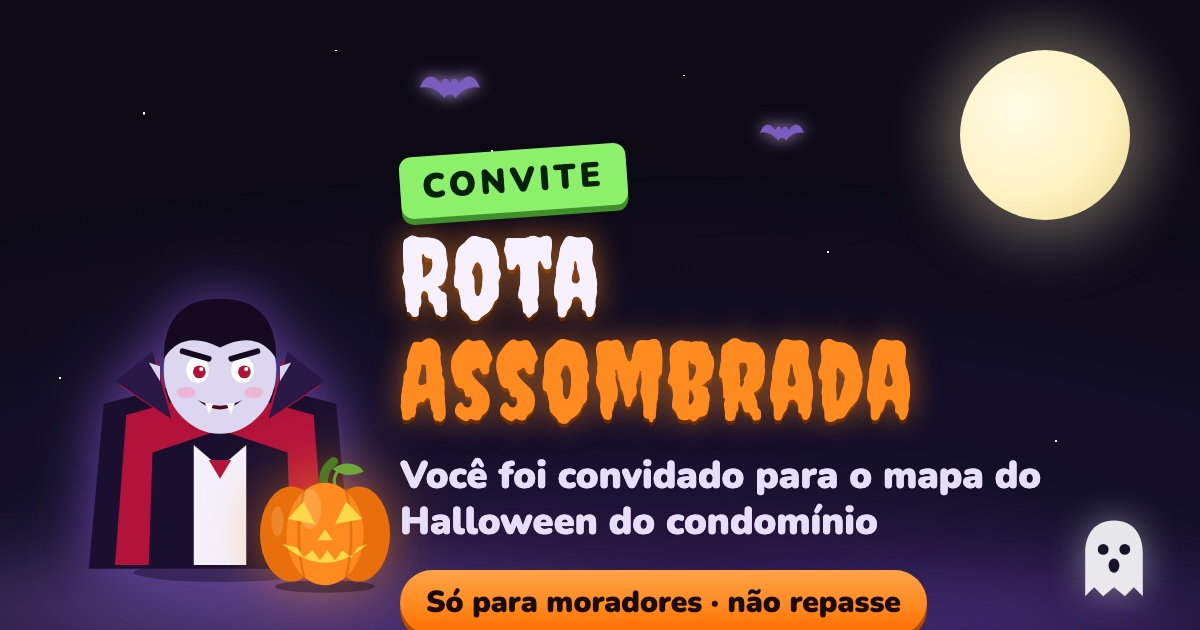
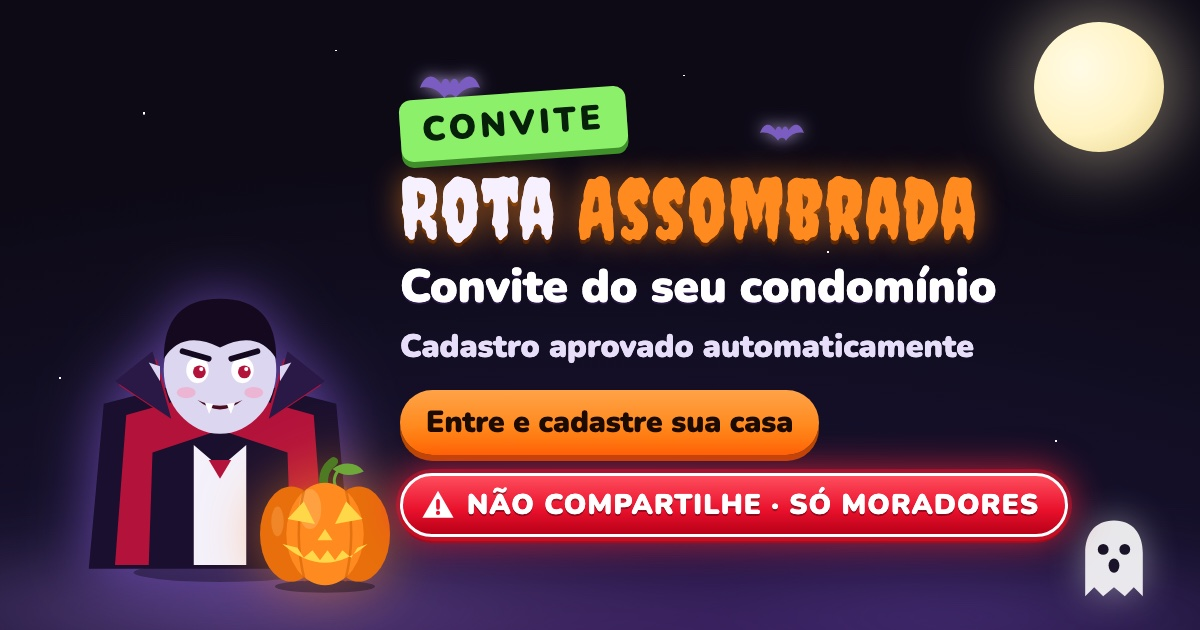
Capas: botão de acordo com o tipo de link, cadastro aprovado e alerta vermelho no convite

diff --git a/scripts/capa-modelo.html b/scripts/capa-modelo.html
@@ -17,10 +17,15 @@ p{margin:16px 0 0;color:#e7defa;font-size:32px;font-weight:900;line-height:1.2}
 .nome{margin:14px 0 0;color:#fff;font-size:46px;font-weight:900;line-height:1.08;display:-webkit-box;-webkit-line-clamp:2;-webkit-box-orient:vertical;overflow:hidden;text-shadow:0 2px 0 #2a1846}
 .nome.longo{font-size:38px}
 .chip{display:inline-block;margin-top:26px;padding:12px 26px;border-radius:999px;background:linear-gradient(180deg,#ffa348,#ff8a1f 55%,#ff6a00);color:#1c0b00;font-weight:900;font-size:30px;box-shadow:0 6px 0 #b84a00}
+.nome:empty,p:empty{display:none}
+.botoes{display:flex;flex-direction:column;align-items:flex-start;gap:18px;margin-top:24px}
+.botoes .chip{margin-top:0}
+.alerta{display:inline-flex;align-items:center;gap:12px;padding:10px 26px 10px 18px;border-radius:999px;background:linear-gradient(180deg,#ff4d5e,#e8102b 60%,#b80018);color:#fff;font-weight:900;font-size:28px;letter-spacing:.04em;border:3px solid #fff;box-shadow:0 0 0 4px rgba(232,16,43,.45),0 0 34px 6px rgba(255,40,60,.65),0 6px 0 #7a0010;text-shadow:0 2px 0 rgba(0,0,0,.35)}
+.alerta svg{width:34px;height:34px;flex:none}
 .selo{display:inline-block;margin-bottom:14px;padding:8px 22px;border-radius:12px;background:#8df06a;color:#06200a;font:900 34px Nunito,sans-serif;letter-spacing:.12em;transform:rotate(-4deg);box-shadow:0 6px 0 #3f8f2a}</style></head><body><div class="est"></div><div class="lua"></div><div class="nevoa"></div>
 <div class="bat" style="left:420px;top:70px"><svg viewBox="0 0 34 18" fill="#7b5cc0"><path d="M0 10C3 2 8 2 12 8c1-4 4-4 5 0 1-4 4-4 5 0 4-6 9-6 12 2-6-1-10 1-14 6-1-3-5-3-6 0-4-5-8-7-14-6z"/></svg></div><div class="bat" style="left:760px;top:120px;width:44px"><svg viewBox="0 0 34 18" fill="#7b5cc0"><path d="M0 10C3 2 8 2 12 8c1-4 4-4 5 0 1-4 4-4 5 0 4-6 9-6 12 2-6-1-10 1-14 6-1-3-5-3-6 0-4-5-8-7-14-6z"/></svg></div>
 <div class="g" style="right:50px;bottom:24px;width:72px"><svg viewBox="0 0 40 46"><path d="M20 2C9 2 4 10 4 20v24l5-5 5 5 6-5 6 5 5-5 5 5V20C36 10 31 2 20 2z" fill="#fff"/><circle cx="14" cy="18" r="3" fill="#1a1428"/><circle cx="26" cy="18" r="3" fill="#1a1428"/><ellipse cx="20" cy="27" rx="3" ry="4" fill="#1a1428"/></svg></div>
 <div class="drac"><svg class="dracula" viewBox="0 0 160 170" aria-hidden="true"><ellipse cx="80" cy="164" rx="46" ry="5" fill="#000" opacity=".35"/><g class="capa"><path d="M18 74 L80 58 L142 74 L150 162 L10 162 Z" fill="#1a0f2e"/><path d="M30 80 L80 66 L130 80 L136 160 L24 160 Z" fill="#b3123b"/></g><path d="M44 100 L80 88 L116 100 L118 160 L42 160 Z" fill="#1a0f2e"/><path d="M66 96 L80 108 L94 96 L94 160 L66 160 Z" fill="#f4f1fb"/><path d="M74 104 l6 10 6-10 z" fill="#b3123b"/><path d="M26 64 L56 84 L46 50 Z M134 64 L104 84 L114 50 Z" fill="#b3123b"/><path d="M24 62 L54 82 L44 46 Z M136 62 L106 82 L116 46 Z" fill="#2a1846"/><ellipse cx="80" cy="56" rx="30" ry="34" fill="#dcd6f0"/><path d="M50 50 Q50 18 80 18 Q110 18 110 50 Q100 34 80 44 Q60 34 50 50 Z" fill="#14091f"/><path d="M48 54 l-6 -2 6 10z M112 54 l6 -2 -6 10z" fill="#dcd6f0"/><g class="olhos"><ellipse cx="68" cy="56" rx="6" ry="7" fill="#fff"/><ellipse cx="92" cy="56" rx="6" ry="7" fill="#fff"/><circle cx="69" cy="57" r="3.4" fill="#b3123b"/><circle cx="93" cy="57" r="3.4" fill="#b3123b"/><circle cx="70" cy="55.5" r="1.1" fill="#fff"/><circle cx="94" cy="55.5" r="1.1" fill="#fff"/></g><path d="M60 46 l14 4 M100 46 l-14 4" stroke="#14091f" stroke-width="3" stroke-linecap="round"/><ellipse cx="62" cy="68" rx="5" ry="3" fill="#ff8fb0" opacity=".45"/><ellipse cx="98" cy="68" rx="5" ry="3" fill="#ff8fb0" opacity=".45"/><g class="boca"><path d="M68 72 Q80 82 92 72 Q80 78 68 72 Z" fill="#4a0d1e"/><path d="M72 73.5 l2.2 6 2.2-5.4 z M83.6 74.1 l2.2 5.4 2.2-6 z" fill="#fff"/></g></svg></div>
 <div class="abo" style="left:250px;bottom:30px;width:150px"><svg class="abobora-vazia" viewBox="0 0 120 112" aria-hidden="true"><ellipse cx="60" cy="106" rx="40" ry="5" fill="#000" opacity=".35"/><path d="M59 26c-1-9 2-16 8-20" stroke="#4f7a24" stroke-width="7" stroke-linecap="round" fill="none"/><path d="M66 12c9-7 20-5 25 2-9 4-17 4-25-2z" fill="#6fa83a"/><path d="M70 14c-4 6-3 12 2 16" stroke="#6fa83a" stroke-width="2.5" fill="none" stroke-linecap="round"/><ellipse cx="33" cy="64" rx="25" ry="38" fill="#e86f0c"/><ellipse cx="87" cy="64" rx="25" ry="38" fill="#e86f0c"/><ellipse cx="60" cy="64" rx="31" ry="41" fill="#ff8a1f"/><ellipse cx="48" cy="44" rx="9" ry="16" fill="#ffb35c" opacity=".55"/><ellipse cx="22" cy="54" rx="5" ry="12" fill="#ffb35c" opacity=".35"/><path d="M44 26q-10 38 0 76M76 26q10 38 0 76" stroke="#c25400" stroke-width="2" fill="none" opacity=".45"/><g class="rosto" fill="#ffd84a"><path d="M30 52l13-14 9 18z"/><path d="M90 52l-13-14-9 18z"/><path d="M60 60l-6 9h12z"/><path d="M26 72q34 30 68 0l-8 3-5 8-7-6-6 8-6-8-6 8-6-8-7 6-5-8z"/></g></svg></div>
-<div class="txt"><div>{{SELO}}<h1>Rota <span>Assombrada</span></h1><div class="nome {{CLASSE_NOME}}">{{NOME}}</div><p>{{SUB}}</p><div class="chip">{{CHIP}}</div></div></div>
+<div class="txt"><div>{{SELO}}<h1>Rota <span>Assombrada</span></h1><div class="nome {{CLASSE_NOME}}">{{NOME}}</div><p>{{SUB}}</p><div class="botoes"><div class="chip">{{CHIP}}</div>{{ALERTA}}</div></div></div>
 </body></html>

diff --git a/c/EMEM8/convite/index.html b/c/EMEM8/convite/index.html
@@ -4,14 +4,14 @@
 <meta charset="utf-8">
 <meta name="viewport" content="width=device-width,initial-scale=1">
 <title>Convite: Condomínio Campos de Santo Antônio I · Rota Assombrada</title>
-<meta name="description" content="Convite para o mapa do Halloween de Condomínio Campos de Santo Antônio I: sua entrada é aprovada automaticamente. Compartilhe só com moradores do condomínio.">
+<meta name="description" content="Convite para o mapa do Halloween de Condomínio Campos de Santo Antônio I: seu cadastro é aprovado automaticamente. Não compartilhe: é só para moradores do condomínio.">
 <meta property="og:type" content="website">
 <meta property="og:site_name" content="Rota Assombrada">
 <meta property="og:title" content="Convite: Condomínio Campos de Santo Antônio I · Rota Assombrada">
-<meta property="og:description" content="Convite para o mapa do Halloween de Condomínio Campos de Santo Antônio I: sua entrada é aprovada automaticamente. Compartilhe só com moradores do condomínio.">
+<meta property="og:description" content="Convite para o mapa do Halloween de Condomínio Campos de Santo Antônio I: seu cadastro é aprovado automaticamente. Não compartilhe: é só para moradores do condomínio.">
 <meta property="og:url" content="https://rota-assombrada.github.io/c/EMEM8/convite/">
-<meta property="og:image" content="https://rota-assombrada.github.io/c/EMEM8/convite/capa.jpg?v=57d7b9a546">
-<meta property="og:image:secure_url" content="https://rota-assombrada.github.io/c/EMEM8/convite/capa.jpg?v=57d7b9a546">
+<meta property="og:image" content="https://rota-assombrada.github.io/c/EMEM8/convite/capa.jpg?v=806f0dee0d">
+<meta property="og:image:secure_url" content="https://rota-assombrada.github.io/c/EMEM8/convite/capa.jpg?v=806f0dee0d">
 <meta property="og:image:type" content="image/jpeg">
 <meta property="og:image:width" content="1200">
 <meta property="og:image:height" content="630">
@@ -19,8 +19,8 @@
 <meta property="og:locale" content="pt_BR">
 <meta name="twitter:card" content="summary_large_image">
 <meta name="twitter:title" content="Convite: Condomínio Campos de Santo Antônio I · Rota Assombrada">
-<meta name="twitter:description" content="Convite para o mapa do Halloween de Condomínio Campos de Santo Antônio I: sua entrada é aprovada automaticamente. Compartilhe só com moradores do condomínio.">
-<meta name="twitter:image" content="https://rota-assombrada.github.io/c/EMEM8/convite/capa.jpg?v=57d7b9a546">
+<meta name="twitter:description" content="Convite para o mapa do Halloween de Condomínio Campos de Santo Antônio I: seu cadastro é aprovado automaticamente. Não compartilhe: é só para moradores do condomínio.">
+<meta name="twitter:image" content="https://rota-assombrada.github.io/c/EMEM8/convite/capa.jpg?v=806f0dee0d">
 <meta name="robots" content="noindex">
 <link rel="icon" type="image/png" href="https://rota-assombrada.github.io/img/favicon-32.png">
 <style>body{margin:0;min-height:100vh;display:flex;align-items:center;justify-content:center;background:#0d0a16;color:#f7f1ff;font:700 18px system-ui,sans-serif;text-align:center;padding:24px}a{color:#ff8a1f}</style>

diff --git a/convite/index.html b/convite/index.html
@@ -4,14 +4,14 @@
 <meta charset="utf-8">
 <meta name="viewport" content="width=device-width,initial-scale=1">
 <title>Convite para o mapa do Halloween · Rota Assombrada</title>
-<meta name="description" content="Convite para o mapa do Halloween do condomínio: sua entrada é aprovada automaticamente. Compartilhe só com moradores do condomínio.">
+<meta name="description" content="Convite para o mapa do Halloween do condomínio: seu cadastro é aprovado automaticamente. Não compartilhe: é só para moradores do condomínio.">
 <meta property="og:type" content="website">
 <meta property="og:site_name" content="Rota Assombrada">
 <meta property="og:title" content="Convite para o mapa do Halloween · Rota Assombrada">
-<meta property="og:description" content="Convite para o mapa do Halloween do condomínio: sua entrada é aprovada automaticamente. Compartilhe só com moradores do condomínio.">
+<meta property="og:description" content="Convite para o mapa do Halloween do condomínio: seu cadastro é aprovado automaticamente. Não compartilhe: é só para moradores do condomínio.">
 <meta property="og:url" content="https://rota-assombrada.github.io/convite/">
-<meta property="og:image" content="https://rota-assombrada.github.io/img/preview-convite.jpg">
-<meta property="og:image:secure_url" content="https://rota-assombrada.github.io/img/preview-convite.jpg">
+<meta property="og:image" content="https://rota-assombrada.github.io/img/preview-convite.jpg?v=2">
+<meta property="og:image:secure_url" content="https://rota-assombrada.github.io/img/preview-convite.jpg?v=2">
 <meta property="og:image:type" content="image/jpeg">
 <meta property="og:image:width" content="1200">
 <meta property="og:image:height" content="630">
@@ -19,8 +19,8 @@
 <meta property="og:locale" content="pt_BR">
 <meta name="twitter:card" content="summary_large_image">
 <meta name="twitter:title" content="Convite para o mapa do Halloween · Rota Assombrada">
-<meta name="twitter:description" content="Convite para o mapa do Halloween do condomínio: sua entrada é aprovada automaticamente. Compartilhe só com moradores do condomínio.">
-<meta name="twitter:image" content="https://rota-assombrada.github.io/img/preview-convite.jpg">
+<meta name="twitter:description" content="Convite para o mapa do Halloween do condomínio: seu cadastro é aprovado automaticamente. Não compartilhe: é só para moradores do condomínio.">
+<meta name="twitter:image" content="https://rota-assombrada.github.io/img/preview-convite.jpg?v=2">
 <meta name="robots" content="noindex">
 <link rel="icon" type="image/png" href="https://rota-assombrada.github.io/img/favicon-32.png">
 <style>body{margin:0;min-height:100vh;display:flex;align-items:center;justify-content:center;background:#0d0a16;color:#f7f1ff;font:700 18px system-ui,sans-serif;text-align:center;padding:24px}a{color:#ff8a1f}</style>

diff --git a/c/EMEM8/index.html b/c/EMEM8/index.html
@@ -10,8 +10,8 @@
 <meta property="og:title" content="Condomínio Campos de Santo Antônio I · Rota Assombrada">
 <meta property="og:description" content="O mapa do Halloween de Condomínio Campos de Santo Antônio I: veja as casas que dão doces, monte o roteiro e cadastre a sua.">
 <meta property="og:url" content="https://rota-assombrada.github.io/c/EMEM8/">
-<meta property="og:image" content="https://rota-assombrada.github.io/c/EMEM8/capa.jpg?v=79c195f1b3">
-<meta property="og:image:secure_url" content="https://rota-assombrada.github.io/c/EMEM8/capa.jpg?v=79c195f1b3">
+<meta property="og:image" content="https://rota-assombrada.github.io/c/EMEM8/capa.jpg?v=650defb261">
+<meta property="og:image:secure_url" content="https://rota-assombrada.github.io/c/EMEM8/capa.jpg?v=650defb261">
 <meta property="og:image:type" content="image/jpeg">
 <meta property="og:image:width" content="1200">
 <meta property="og:image:height" content="630">
@@ -20,7 +20,7 @@
 <meta name="twitter:card" content="summary_large_image">
 <meta name="twitter:title" content="Condomínio Campos de Santo Antônio I · Rota Assombrada">
 <meta name="twitter:description" content="O mapa do Halloween de Condomínio Campos de Santo Antônio I: veja as casas que dão doces, monte o roteiro e cadastre a sua.">
-<meta name="twitter:image" content="https://rota-assombrada.github.io/c/EMEM8/capa.jpg?v=79c195f1b3">
+<meta name="twitter:image" content="https://rota-assombrada.github.io/c/EMEM8/capa.jpg?v=650defb261">
 <meta name="robots" content="noindex">
 <link rel="icon" type="image/png" href="https://rota-assombrada.github.io/img/favicon-32.png">
 <style>body{margin:0;min-height:100vh;display:flex;align-items:center;justify-content:center;background:#0d0a16;color:#f7f1ff;font:700 18px system-ui,sans-serif;text-align:center;padding:24px}a{color:#ff8a1f}</style>

diff --git a/c/index.html b/c/index.html
@@ -10,8 +10,8 @@
 <meta property="og:title" content="Mapa do Halloween do condomínio · Rota Assombrada">
 <meta property="og:description" content="Veja as casas que dão doces no seu condomínio, monte o roteiro e cadastre a sua casa.">
 <meta property="og:url" content="https://rota-assombrada.github.io/c/">
-<meta property="og:image" content="https://rota-assombrada.github.io/img/preview.jpg">
-<meta property="og:image:secure_url" content="https://rota-assombrada.github.io/img/preview.jpg">
+<meta property="og:image" content="https://rota-assombrada.github.io/img/preview.jpg?v=2">
+<meta property="og:image:secure_url" content="https://rota-assombrada.github.io/img/preview.jpg?v=2">
 <meta property="og:image:type" content="image/jpeg">
 <meta property="og:image:width" content="1200">
 <meta property="og:image:height" content="630">
@@ -20,7 +20,7 @@
 <meta name="twitter:card" content="summary_large_image">
 <meta name="twitter:title" content="Mapa do Halloween do condomínio · Rota Assombrada">
 <meta name="twitter:description" content="Veja as casas que dão doces no seu condomínio, monte o roteiro e cadastre a sua casa.">
-<meta name="twitter:image" content="https://rota-assombrada.github.io/img/preview.jpg">
+<meta name="twitter:image" content="https://rota-assombrada.github.io/img/preview.jpg?v=2">
 <meta name="robots" content="noindex">
 <link rel="icon" type="image/png" href="https://rota-assombrada.github.io/img/favicon-32.png">
 <style>body{margin:0;min-height:100vh;display:flex;align-items:center;justify-content:center;background:#0d0a16;color:#f7f1ff;font:700 18px system-ui,sans-serif;text-align:center;padding:24px}a{color:#ff8a1f}</style>

diff --git a/404.html b/404.html
@@ -10,8 +10,8 @@
 <meta property="og:title" content="Rota Assombrada">
 <meta property="og:description" content="O mapa das casas que dão doces no seu condomínio.">
 <meta property="og:url" content="https://rota-assombrada.github.io/">
-<meta property="og:image" content="https://rota-assombrada.github.io/img/preview.jpg">
-<meta property="og:image:secure_url" content="https://rota-assombrada.github.io/img/preview.jpg">
+<meta property="og:image" content="https://rota-assombrada.github.io/img/preview.jpg?v=2">
+<meta property="og:image:secure_url" content="https://rota-assombrada.github.io/img/preview.jpg?v=2">
 <meta property="og:image:type" content="image/jpeg">
 <meta property="og:image:width" content="1200">
 <meta property="og:image:height" content="630">
@@ -20,7 +20,7 @@
 <meta name="twitter:card" content="summary_large_image">
 <meta name="twitter:title" content="Rota Assombrada">
 <meta name="twitter:description" content="O mapa das casas que dão doces no seu condomínio.">
-<meta name="twitter:image" content="https://rota-assombrada.github.io/img/preview.jpg">
+<meta name="twitter:image" content="https://rota-assombrada.github.io/img/preview.jpg?v=2">
 <meta name="robots" content="noindex">
 <link rel="icon" type="image/png" href="https://rota-assombrada.github.io/img/favicon-32.png">
 <style>body{margin:0;min-height:100vh;display:flex;align-items:center;justify-content:center;background:#0d0a16;color:#f7f1ff;font:700 18px system-ui,sans-serif;text-align:center;padding:24px}a{color:#ff8a1f}</style>

diff --git a/index.html b/index.html
@@ -15,8 +15,8 @@
 <meta property="og:title" content="Rota Assombrada 🎃">
 <meta property="og:description" content="O mapa das casas que dão doces no seu condomínio. Cadastre sua casa e monte o roteiro do Halloween.">
 <meta property="og:url" content="https://rota-assombrada.github.io/">
-<meta property="og:image" content="https://rota-assombrada.github.io/img/preview.jpg">
-<meta property="og:image:secure_url" content="https://rota-assombrada.github.io/img/preview.jpg">
+<meta property="og:image" content="https://rota-assombrada.github.io/img/preview.jpg?v=2">
+<meta property="og:image:secure_url" content="https://rota-assombrada.github.io/img/preview.jpg?v=2">
 <meta property="og:image:type" content="image/jpeg">
 <meta property="og:image:width" content="1200">
 <meta property="og:image:height" content="630">
@@ -25,7 +25,7 @@
 <meta name="twitter:card" content="summary_large_image">
 <meta name="twitter:title" content="Rota Assombrada">
 <meta name="twitter:description" content="O mapa das casas que dão doces no seu condomínio.">
-<meta name="twitter:image" content="https://rota-assombrada.github.io/img/preview.jpg">
+<meta name="twitter:image" content="https://rota-assombrada.github.io/img/preview.jpg?v=2">
 <link rel="apple-touch-icon" href="img/apple-touch-icon.png">
 <link rel="manifest" href="manifest.webmanifest">
 <link rel="icon" type="image/png" sizes="32x32" href="img/favicon-32.png">
